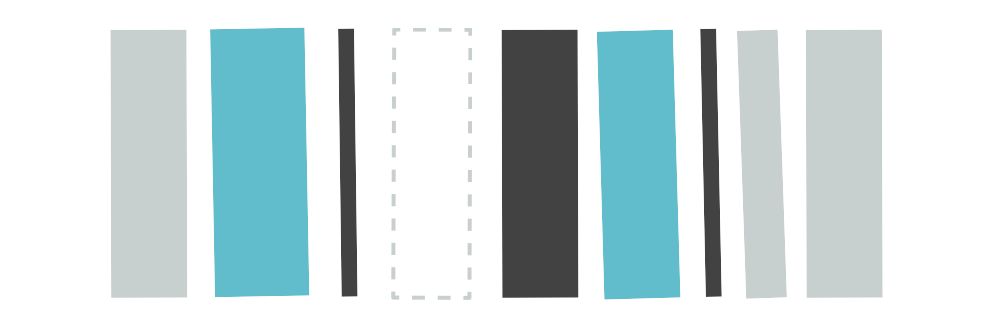
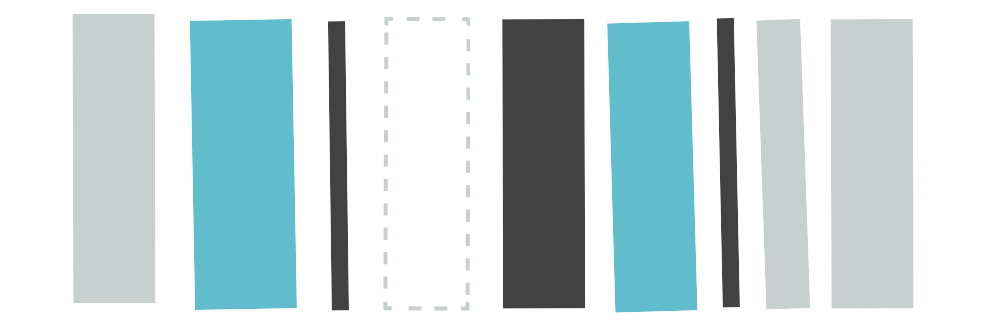
New home illustration, bigger reading margins

diff --git a/assets/css/style.min.css b/assets/css/style.min.css
@@ -1,1 +1,1 @@
[2 lines of base64/hex data omitted]

diff --git a/Gruntfile.js b/Gruntfile.js
@@ -12,7 +12,7 @@ module.exports = function(grunt) {
       dist: {
         files: [{
           expand: true,
-          cwd: 'assets/images/src', // Src matches are relative to this path.
+          cwd: 'assets/images/_src', // Src matches are relative to this path.
           src: ['**/*.svg'], // Actual pattern(s) to match.
           dest: 'assets/images/', // Destination path prefix.
           ext: '.min.svg' // Dest filepaths will have this extension.
@@ -24,7 +24,7 @@ module.exports = function(grunt) {
     svg2png: {
       all: {
         files: [
-            { src: ['assets/images/src/**/*.svg'], dest: 'assets/images/' },
+            { src: ['assets/images/_src/**/*.svg'], dest: 'assets/images/' },
         ],
       },
     },

diff --git a/assets/scss/partials/_layout.scss b/assets/scss/partials/_layout.scss
@@ -3,9 +3,9 @@
 \*-----------------------------------*/
 
 .wrap {
-  max-width: 44rem;
+  max-width: $baseline*30;
   margin: 0 auto;
-  padding: 0 $baseline*3;
+  padding: 0 $baseline*4;
 
   @media (max-width: $breakpoint-small) {
   	padding: 0 $baseline/1.4;

diff --git a/_layouts/promo-page.html b/_layouts/promo-page.html
@@ -1,0 +1,10 @@
+---
+layout: default
+---
+        <header class="entry-header">
+          <h1 class="entry-title promo">{{ page.title | widont }}</h1>
+        </header>
+
+        <div class="entry-content">
+        {{ content }}
+        </div>

diff --git a/assets/css/style.css b/assets/css/style.css
@@ -670,9 +670,9 @@ p:empty {
 \*-----------------------------------*/
 
 .wrap {
-  max-width: 44rem;
+  max-width: 46.5rem;
   margin: 0 auto;
-  padding: 0 4.65rem;
+  padding: 0 6.2rem;
 }
 
 @media (max-width: 33rem) {

diff --git a/404/index.html b/404/index.html
@@ -1,5 +1,5 @@
 ---
-layout: page
+layout: promo-page
 title: Page Not Found
 ---
 

diff --git a/index.md b/index.md
@@ -1,33 +1,9 @@
 ---
-layout: page
+layout: promo-page
 title: Everything is Designed
 ---
 
-<figure class="home__illustration">
-  <svg version="1.1" xmlns="http://www.w3.org/2000/svg" xmlns:xlink="http://www.w3.org/1999/xlink" x="0px" y="0px" viewBox="0 0 1000 635" enable-background="new 0 0 997.13 635.443" xml:space="preserve">
-    <rect x="227.315" y="230" transform="matrix(0.8928 -0.4504 0.4504 0.8928 -129.4266 161.4835)" opacity="0.9" fill="#4fb5c6" width="94.587" height="268.304">
-      <animate attributename="y" values="230;240;230" fill="freeze" dur="8s" calcMode="spline" keySplines="0.25 0.1 0.25 1;0.25 0.1 0.25 1" repeatCount="indefinite" />
-    </rect>
-    <rect x="385.745" y="237" transform="matrix(0.9554 -0.2953 0.2953 0.9554 -92.2689 132.8519)" opacity="0.9" fill="#2c3032" width="16.054" height="268.304">
-      <animate attributename="y" values="237;240;237" fill="freeze" dur="8.2s" calcMode="spline" keySplines="0.25 0.1 0.25 1;0.25 0.1 0.25 1" repeatCount="indefinite" />
-    </rect>
-    <rect x="384.465" y="150" opacity="0.9" fill="#C4C9CA" width="76.255" height="268.304">
-      <animate attributename="y" values="150;160;150" fill="freeze" dur="7.5s" calcMode="spline" keySplines="0.25 0.1 0.25 1;0.25 0.1 0.25 1" repeatCount="indefinite" />
-    </rect>
-    <rect x="484.726" y="10" transform="matrix(0.9611 0.2762 -0.2762 0.9611 63.0942 -138.382)" opacity="0.9" fill="#2c3032" width="76.255" height="268.304">
-      <animate attributename="y" values="10;20;10" fill="freeze" dur="8.1s" calcMode="spline" keySplines="0.25 0.1 0.25 1;0.25 0.1 0.25 1" repeatCount="indefinite" />
-    </rect>
-    <rect x="549.684" y="190" transform="matrix(0.9836 0.1805 -0.1805 0.9836 69.2656 -100.6841)" opacity="0.9" fill="#4fb5c6" width="76.255" height="268.304">
-      <animate attributename="y" values="190;196;190" fill="freeze" dur="6.6s" calcMode="spline" keySplines="0.25 0.1 0.25 1;0.25 0.1 0.25 1" repeatCount="indefinite" />
-    </rect>
-    <rect x="635.692" y="315" transform="matrix(0.9763 0.2163 -0.2163 0.9763 114.3341 -128.401)" opacity="0.9" fill="#2c3032" width="16.054" height="268.304">
-      <animate attributename="y" values="315;323;315" fill="freeze" dur="8.8s" calcMode="spline" keySplines="0.25 0.1 0.25 1;0.25 0.1 0.25 1" repeatCount="indefinite" />
-    </rect>
-    <rect x="726.298" y="128" transform="matrix(0.9803 -0.1975 0.1975 0.9803 -37.217 152.6898)" opacity="0.9" fill="#C4C9CA" width="40.851" height="268.304">
-      <animate attributename="y" values="128;132;128" fill="freeze" dur="8.4s" calcMode="spline" keySplines="0.25 0.1 0.25 1;0.25 0.1 0.25 1" repeatCount="indefinite" />
-    </rect>
-  </svg>
-</figure>
+{% image /assets/images/flags.min.svg %}
 
 Find an object that hasn’t been manipulated by the human hand. If you’re sitting in a café or an office, at home or on a train, chances are you’ll find that a very difficult task.
 
